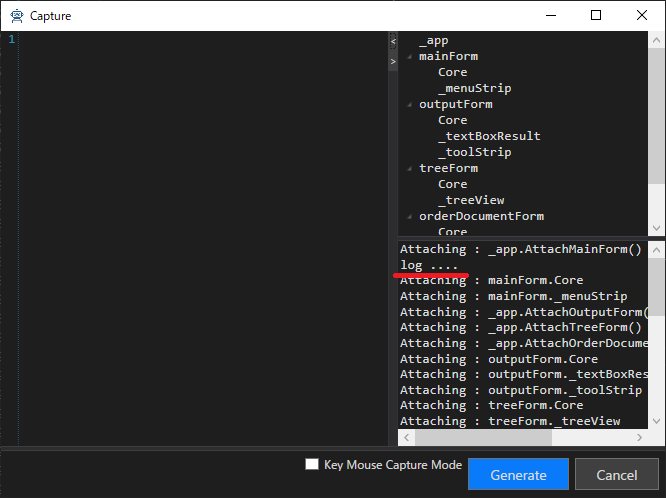
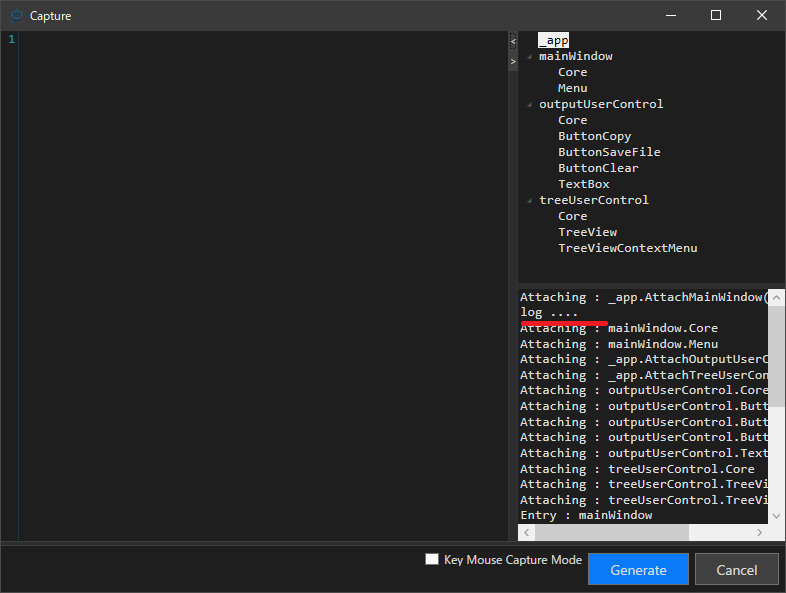
画像と文章の修正

Changed region(s): [[0.0, 0.0, 1.0, 1.0], [0.0, 0.8735, 0.03, 0.9337]]

diff --git a/WPF/feature/AnalyzeWindow.md b/WPF/feature/AnalyzeWindow.md
@@ -156,7 +156,32 @@ namespace Driver.Windows
     {
         [WindowDriverIdentify(TypeFullName = "WpfDockApp.MainWindow")]
         public static MainWindowDriver AttachMainWindow(this WindowsAppFriend app)
-            => app.WaitForIdentifyFromTypeFullName("WpfDockApp.MainWindow").Dynamic();
+        {
+            switch (TestAssistantMode.CurrentMode)
+            {
+                //TestAssistantPro以外で実行
+                case TestAssistantMode.Mode.Non:
+                    break;
+                //AnalyzeWindowから呼ばれた場合
+                case TestAssistantMode.Mode.Analyze:
+                    break;
+                //Captureから呼ばれた場合
+                case TestAssistantMode.Mode.Capture:
+                    break;
+                //Executeから呼ばれた場合
+                case TestAssistantMode.Mode.Execute:
+                    break;
+            }
+
+            //Analyze or Capture から呼ばれた場合に true
+            if (TestAssistantMode.IsCreatingMode)
+            {
+                //ログを出力できる
+                Logger.WriteLine("log ....");
+            }
+
+            return app.WaitForIdentifyFromTypeFullName("WpfDockApp.MainWindow").Dynamic();
+        }
     }
 }
 ```

diff --git a/WPF/feature/CaptureAndExecute.md b/WPF/feature/CaptureAndExecute.md
@@ -44,12 +44,16 @@ Async の詳細は[こちら](https://github.com/Codeer-Software/Friendly/blob/m
 ```cs
 void AsyncTest()
 {
-    var mainForm = _app.AttachMainForm();
+    var mainWindow = _app.AttachMainWindow();
 
     var async = new Async();
-    mainForm._menuStrip.FindItem("etc.", "Simple Dialog").EmulateClick(async);
-    var simpleForm = _app.AttachSimpleForm();
-    simpleForm._buttonCancel.EmulateClick();
+    mainWindow.Menu.GetItem("etc.", "Simple Dialog").EmulateClick(async);
+    var simpleWindow = _app.AttachSimpleWindow();
+    simpleWindow.TextBox.EmulateChangeText("Test");
+    simpleWindow.DatePicker.EmulateChangeDate(new DateTime(2020, 8, 13));
+    simpleWindow.ComboBox.EmulateChangeSelectedIndex(1);
+    simpleWindow.TextBox0.EmulateChangeText("テストの値");
+    simpleWindow.OK.EmulateClick();
     async.WaitForCompletion();
 }
 ```
